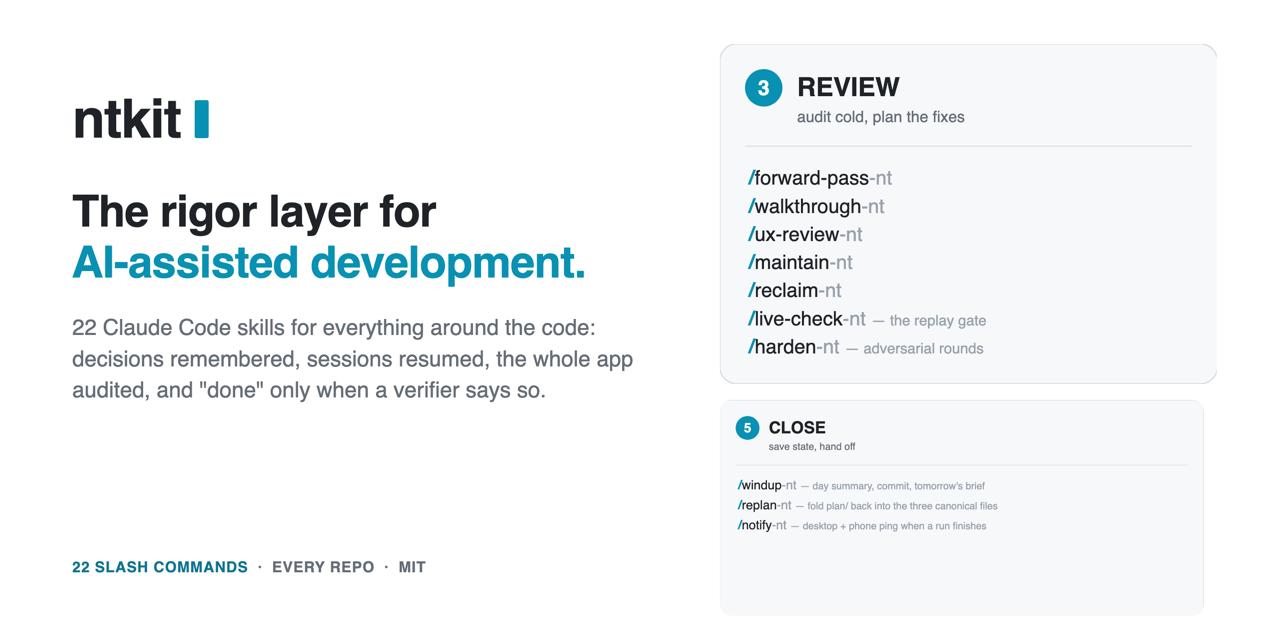
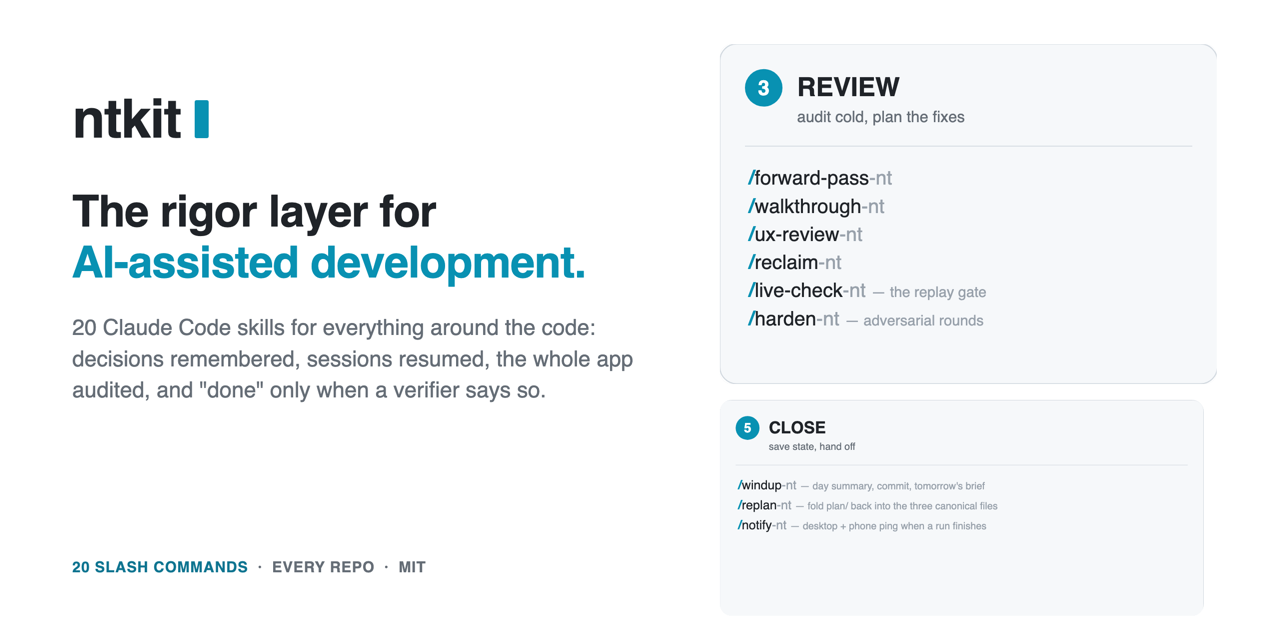
Remove /standup-nt and /maintain-nt
Usage over 2026-06-20..10-01: standup-nt ran twice (last 2026-07-27),
maintain-nt once. Cross-repo status now lives in the central plan store;
dependency and Actions upkeep is Dependabot's job; perf drift is the
web-perf skill's. maintain-nt's supply-chain and CI-privilege checks move
into security-classes.md (next commit), so /forward-pass-nt runs them on
any repo with dependencies or workflows.

README, STATES, AUTHORING, the workflow map and the social card now say
twenty skills.

Changed region(s): [[0.5625, 0.4062, 0.7812, 0.5625], [0.0625, 0.5, 0.0938, 0.5312]]

diff --git a/assets/social.html b/assets/social.html
@@ -32,9 +32,9 @@
   <div class="copy">
     <div class="brand"><span>ntkit</span><i></i></div>
     <h1>The rigor layer for <em>AI-assisted development.</em></h1>
-    <p class="sub">22 Claude Code skills for everything around the code: decisions remembered, sessions resumed, the whole app audited, and "done" only when a verifier says so.</p>
+    <p class="sub">20 Claude Code skills for everything around the code: decisions remembered, sessions resumed, the whole app audited, and "done" only when a verifier says so.</p>
   </div>
-  <div class="facts"><b>22 slash commands</b> &nbsp;·&nbsp; every repo &nbsp;·&nbsp; MIT</div>
+  <div class="facts"><b>20 slash commands</b> &nbsp;·&nbsp; every repo &nbsp;·&nbsp; MIT</div>
   <div class="shot shotTop"><img src="workflow.svg" alt=""></div>
   <div class="shot shotBottom"><img src="workflow.svg" alt=""></div>
 </body></html>

diff --git a/README.md b/README.md
@@ -1,7 +1,7 @@
 <h1 align="center">ntkit</h1>
 
 <p align="center">
-  <strong>Twenty-two Claude Code skills that give an agent the discipline it's missing — remembers decisions, audits the whole app, and never says "done" without a verifier.</strong>
+  <strong>Twenty Claude Code skills that give an agent the discipline it's missing — remembers decisions, audits the whole app, and never says "done" without a verifier.</strong>
 </p>
 
 <p align="center">
@@ -15,7 +15,7 @@
   <img alt="account: none" src="https://img.shields.io/badge/account-none-0891b2?style=flat-square">
 </p>
 
-![ntkit workflow map — 22 Claude Code skills across five phases, plus a daily session loop and the scholia knowledge vault used at every phase](assets/workflow.png)
+![ntkit workflow map — 20 Claude Code skills across five phases, plus a daily session loop and the scholia knowledge vault used at every phase](assets/workflow.png)
 
 ## Install
 
@@ -35,7 +35,7 @@ Command name = the folder name (`skills/forward-pass-nt/` → `/forward-pass-nt`
 
 Your agent forgets what it decided yesterday. It reviews the diff, never the app it sits inside. It tells you a fix is "done" when nothing ran to check, and starts cold every session because nothing wrote down where the last one stopped.
 
-ntkit is twenty-two skills that add that discipline: a `plan/` folder each repo keeps that every command reads and writes, a cold whole-app audit that hands back a real fix-workplan, and a report format that won't let "done" through without a verifier behind it.
+ntkit is twenty skills that add that discipline: a `plan/` folder each repo keeps that every command reads and writes, a cold whole-app audit that hands back a real fix-workplan, and a report format that won't let "done" through without a verifier behind it.
 
 **Use a single `CLAUDE.md`** if your project is small enough that one file of standing instructions is the whole picture. **Use [pi-workflows](https://github.com/osolmaz/pi-workflows)** for the six-point authoring standard alone, without ntkit's `plan/` state machine and report format on top — [`AUTHORING.md`](AUTHORING.md) borrows its shape. **Use your agent's own memory** if you only need continuity inside one long session, not across days or repos.
 
@@ -43,7 +43,7 @@ ntkit is twenty-two skills that add that discipline: a `plan/` folder each repo 
 
 Most commands share one idea: a gitignored `plan/` folder per repo (or a symlink to one — set `NT_PLAN_STORE` to keep every plan in one backed-up folder, [MEMORY.md §0](MEMORY.md#0-where-plan-lives)), three files — `history.md` (decisions · log · dead ends), `pending.md` (now · parked · open questions), `workplan.md` (chunked, checkboxed work). Commands read and write those files, so every session picks up exactly where the last one left off.
 
-`-nt` is just the namespace (NakliTechie), so these don't collide with your own commands — rename freely. `/standup-nt` reports on every repo with a `plan/`; run it first thing, most days.
+`-nt` is just the namespace (NakliTechie), so these don't collide with your own commands — rename freely.
 
 ## Give it a memory
 
@@ -51,14 +51,13 @@ The knowledge vault is a separate tool: **[scholia](https://github.com/NakliTech
 
 It also searches a repo's own `plan/`: `scholia history <terms> --plan .` ranks every entry, `_archive/` included, with its date, and needs no vault ([MEMORY.md §8](MEMORY.md#8-recall-over-the-records)).
 
-The convention: check the vault before the web. `/research-nt`, `/lab-nt`'s research phase and `/scaffold-nt` sizing up a new project all run `/ask-nt` first when scholia is installed, then `/capture-nt` what they found — so the second time a question comes up, it's already answered. No scholia, or no vault at `~/Code/knowledge`? Both degrade to "search the web," and nothing else in the kit depends on either existing.
+The convention: check the vault before the web. `/research-nt`, `/lab-nt`'s research phase and `/scaffold-nt` sizing up a new project all run `/ask-nt` first when scholia is installed, then offer `/capture-nt` for what they found — so the second time a question comes up, it's already answered. No scholia, or no vault at `~/Code/knowledge`? Both degrade to "search the web," and nothing else in the kit depends on either existing.
 
 ## Scheduling
 
-Two commands run without you. `/maintain-nt` weekly — read-only rot detection, ideal cron work. `/autopilot-nt` nightly — worktree-isolated, ships a green gate to main, holds a red one on its own branch.
+`/autopilot-nt` runs without you, nightly: worktree-isolated, it ships a green gate to main and holds a red one on its own branch.
 
 ```cron
-0 7 * * 1  cd ~/code/myproject && timeout 30m claude -p "/maintain-nt" --dangerously-skip-permissions >> ~/.ntkit-cron.log 2>&1
 0 2 * * *  cd ~/code/myproject && timeout 6h claude -p "/autopilot-nt" --dangerously-skip-permissions >> ~/.ntkit-cron.log 2>&1
 ```
 
@@ -68,7 +67,6 @@ Two commands run without you. `/maintain-nt` weekly — read-only rot detection,
 
 ```
 /scaffold-nt            # new project — bootstrap folder + git + remote + seeded plan/
-/standup-nt             # start of day — scan every repo with plan/, active / idle / stale
 /resume-nt              # start of session — read the handoff, name the state, wait or go
 /decide-nt "<why>"      # mid-session — append a dated one-line decision
 /soc-nt "<thought>"     # mid-build — raw stream-of-consciousness; replan-nt triages later
@@ -78,7 +76,6 @@ Two commands run without you. `/maintain-nt` weekly — read-only rot detection,
 /forward-pass-nt        # anytime — fresh-eyes whole-app audit, batched fix-workplan
 /walkthrough-nt         # anytime — drive each role in a real browser, fix bugs, leave a harness
 /ux-review-nt           # anytime — cold first-timer review, ranked onboarding/nav failures
-/maintain-nt            # upkeep — stale deps / Actions / advisories / links; safe fixes applied
 /reclaim-nt             # upkeep — find the GB in old weights, worktrees, archives; Trash only on apply
 /live-check-nt          # verifying → shipped — the real deployed runtime, machine evidence
 /harden-nt              # before "ready" — map a surface's paths, harden each in rounds
@@ -103,7 +100,7 @@ tests/run.sh    # free, seconds: the scripts skills ship, and every eval check c
 evals/run.sh    # model runs: a fixture project, one prompt, a deterministic check
 ```
 
-Every skill's frontmatter states its contract — `entry`, `exit`, `writes` — so a run that can't satisfy `entry` refuses instead of proceeding politely, and `exit` names a check, not a vibe. The loop prints nothing when that contract holds across all 22; [`AUTHORING.md`](AUTHORING.md) is the standard it's checked against. A `/research-nt` report is VERIFIED only when its `check.py gates` exits 0: every cited page came through its fetch log, every planned section and required name is present. `evals/run.sh` needs one login first, `CLAUDE_CONFIG_DIR=~/.ntkit-eval claude auth login` ([AUTHORING §11](AUTHORING.md#11-test-it)).
+Every skill's frontmatter states its contract — `entry`, `exit`, `writes` — so a run that can't satisfy `entry` refuses instead of proceeding politely, and `exit` names a check, not a vibe. The loop prints nothing when that contract holds across all 20; [`AUTHORING.md`](AUTHORING.md) is the standard it's checked against. A `/research-nt` report is VERIFIED only when its `check.py gates` exits 0: every cited page came through its fetch log, every planned section and required name is present. `evals/run.sh` needs one login first, `CLAUDE_CONFIG_DIR=~/.ntkit-eval claude auth login` ([AUTHORING §11](AUTHORING.md#11-test-it)).
 
 ## License and credits
 

diff --git a/STATES.md b/STATES.md
@@ -44,9 +44,9 @@ whatever state the repo is in. The state survives the session; that's the point.
 | `building` | `/decide-nt`, `/soc-nt`, `/windup-nt` (warns), `/autopilot-nt`, `/harden-nt` (if the surface's paths are reachable) | `/release-nt`, `/package-nt` |
 | `verifying` | `/live-check-nt` (the replay gate), `/harden-nt` (iterated, before an agent surface is called ready), `/autopilot-nt`, `/walkthrough-nt`, `/forward-pass-nt` | `/release-nt` with open items |
 | `blocked` | `/resume-nt`, `/decide-nt` (unblock), `/replan-nt` | `/autopilot-nt` at the same wall; `/lab-nt resume` at an unchanged wall |
-| `shipped` | `/package-nt`, `/release-nt` (next), `/maintain-nt` | — |
+| `shipped` | `/package-nt`, `/release-nt` (next) | — |
 
-Always legal, any state: `/standup-nt`, `/resume-nt`, `/decide-nt`, `/soc-nt`,
+Always legal, any state: `/resume-nt`, `/decide-nt`, `/soc-nt`,
 `/notify-nt`, and the vault pair (`/capture-nt`, `/ask-nt`) — they read, log, or
 live outside the repo entirely.
 
@@ -104,8 +104,8 @@ Concurrent `/autopilot-nt` runs (and `/lab-nt` campaigns) are actors: each in it
 own worktree, private state, **no reading another run's worktree or plan
 scratch**. The only communication is the mailbox — the morning report
 `plan/<date>-autopilot.md` (or the leg report `plan/lab/<slug>/<date>-leg.md`),
-one format, one location. `/standup-nt` is the sole cross-actor reader;
-`/resume-nt` reads only its own repo's mailbox. Message-passing, no shared
+one format, one location. `/resume-nt`, `/windup-nt` and `/replan-nt` read their own repo's
+mailboxes; no command reads another repo's. Message-passing, no shared
 memory — that's what makes parallel runs safe to leave alone.
 
 ## Replay check

diff --git a/AUTHORING.md b/AUTHORING.md
@@ -2,7 +2,7 @@
 
 Every `-nt` skill (`skills/<name>/SKILL.md`) is a prompt with a contract. This file is the standard for
 writing a new one — and the checklist for reviewing a change to an existing one.
-It exists because twenty-one commands drifting apart in shape is how a kit rots; one
+It exists because twenty commands drifting apart in shape is how a kit rots; one
 shape is how they stay composable. (The six-point idea is ported from the
 built-in-skill standards in [osolmaz/pi-workflows](https://github.com/osolmaz/pi-workflows),
 folded into ntkit's own doctrine.)
@@ -39,9 +39,8 @@ delete, send, post, spend** — is granted per run and **defaults to denied when
 unstated**. A command never assumes it. Reversible, in-repo work (edit, commit to
 a branch, write `plan/`) needs no grant. This is the authoring face of STATES
 guard #4: the safe default for outward-facing power is *off*, and the command asks
-or refuses rather than assuming yes. `/maintain-nt` models it — the sweep is
-read-only, only the *reversible* safe class auto-applies, and anything that can
-break you defers to `/autopilot-nt`.
+or refuses rather than assuming yes. `/reclaim-nt` models it — the sweep is
+read-only, and nothing moves to the Trash without a per-item `apply`.
 
 ## 4. One complete, valid example
 
